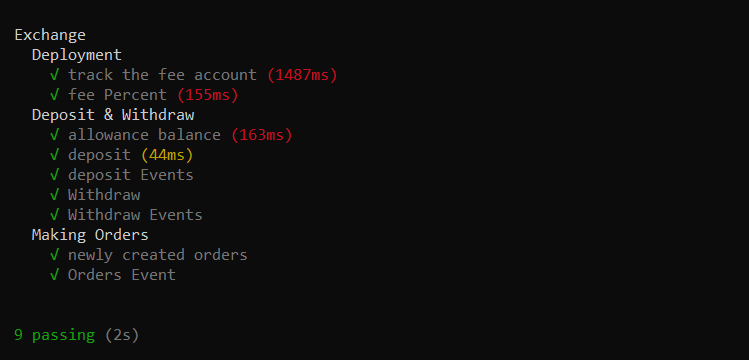
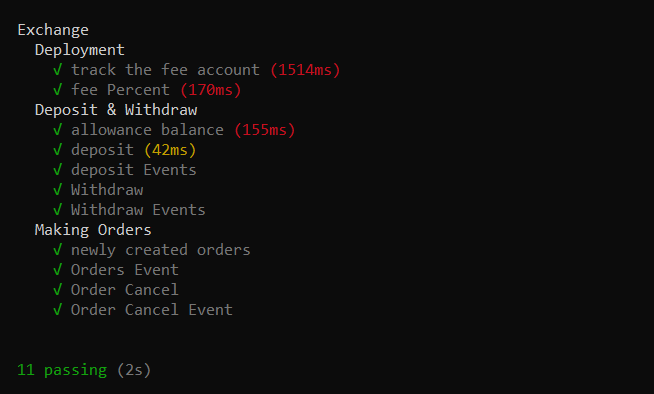
TDD: add cancel order

Changed region(s): [[0.0, 0.0611, 0.5199, 0.825], [0.0, 0.9167, 0.2446, 0.9778]]

diff --git a/dex-contract/test/Exchange.js b/dex-contract/test/Exchange.js
@@ -139,6 +139,26 @@ describe("Exchange", function () {
 
     })
 
+    it("Order Cancel", async function () {
+      txn = await exchange.connect(account_1).cancelOrder(1);
+      txn = await txn.wait();
+      const isCancelled = await exchange.ordersCancelled(1);
+      expect(isCancelled).to.equal(true);
+    })
+
+    it("Order Cancel Event", async function () {
+      const events = txn.events;
+      const index = events.length - 1;
+      const args = events[index].args;
+      expect(args.id).to.equal(1);
+      expect(args.user).to.equal(account_1.address)
+      expect(args.tokenGet).to.equal(inrToken.address)
+      expect(args.amountGet).to.equal(ethers.utils.parseUnits("1", 18))
+      expect(args.tokenGive).to.equal(usdtToken.address)
+      expect(args.amountGive).to.equal(ethers.utils.parseUnits("2", 18))
+      expect(args.timestamp).to.at.least(1)
+    })
+
   })
 
 });
